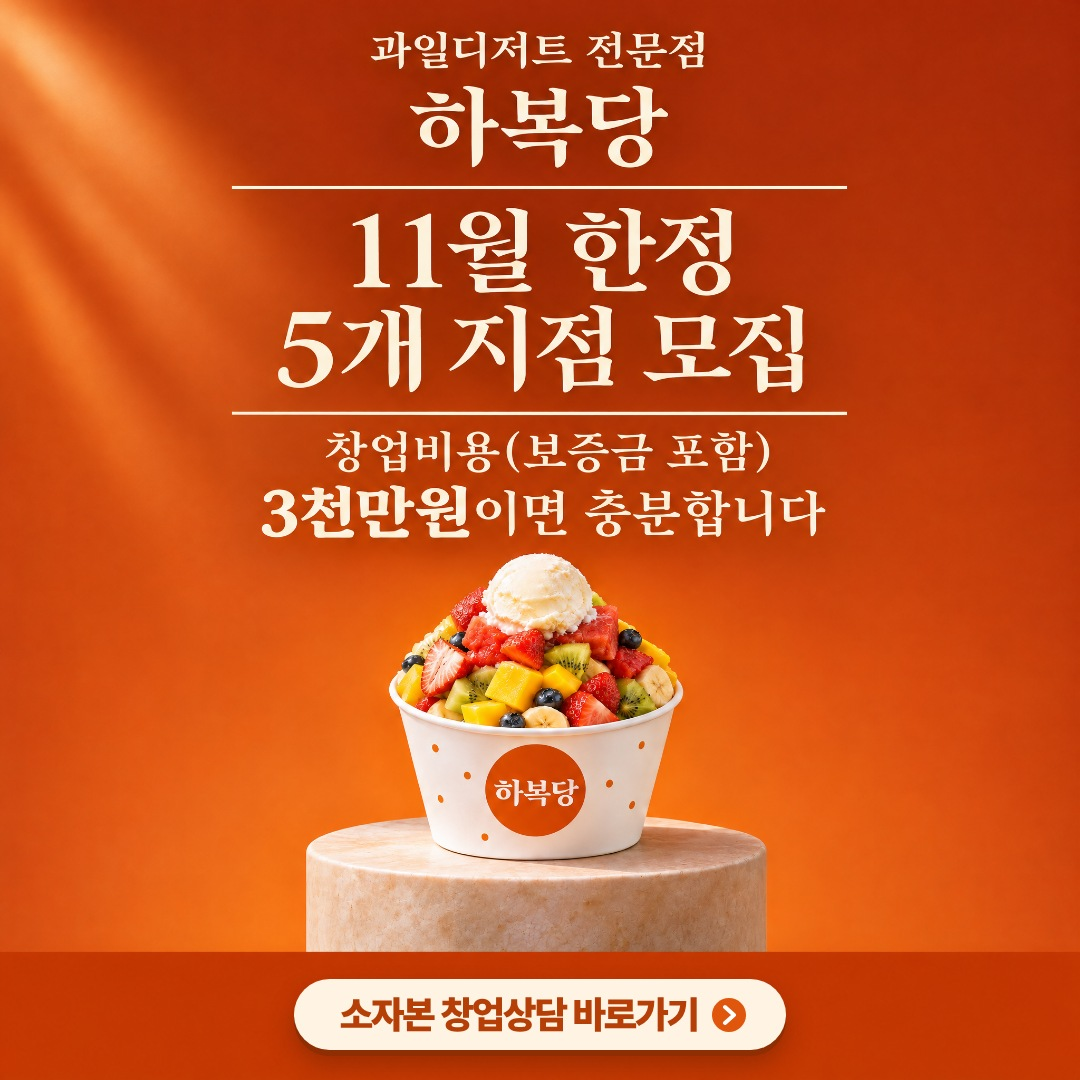
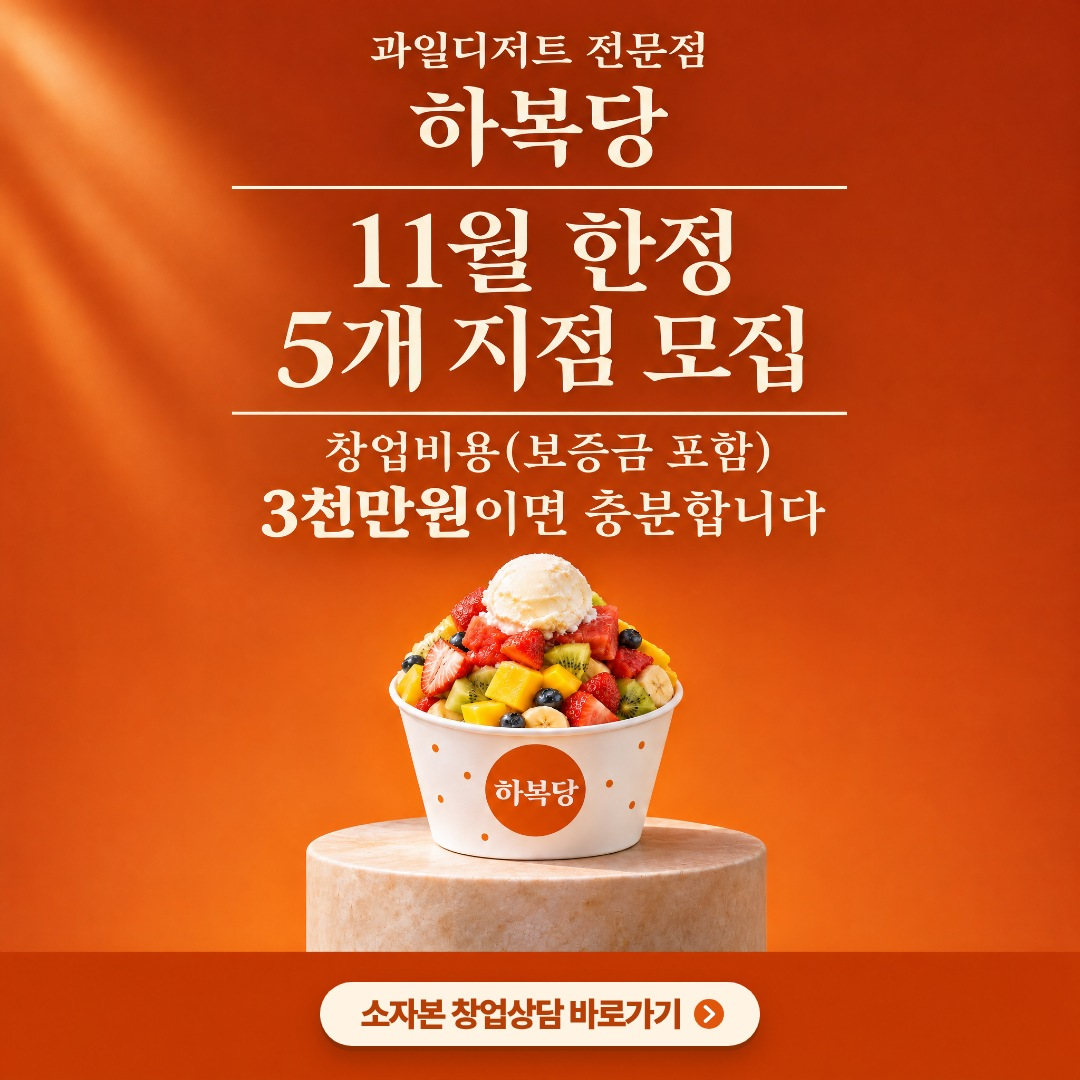
Scale text with the canvas when resizing ads
Resized versions now scale every font, padding, logo and button by
sqrt(area ratio): 1.33x for 1:1 to 9:16, 1.19x/0.89x for the 4:5 master's
9:16/1:1 buttons. Lines that would pass the side margins break instead
of shrinking. Adds ads_meta/CLAUDE.md with the user's standing rules.

Claude-Session: https://claude.ai/code/session_0179R8Fgvuzrn575bSfJcdRk

Changed region(s): [[0.275, 0.8861, 0.7333, 0.9778]]

diff --git a/ads_meta/make_ref3.py b/ads_meta/make_ref3.py
@@ -90,55 +90,65 @@ if __name__ == '__main__':
 
 
 # ================================================================ 9:16 (1080x1920)
+# Resize rule (user, 2026-11-10): text scales with the canvas. 1:1 -> 9:16 is sqrt(1920/1080) = 1.33x
+# for every font, padding, logo and button. A line that would pass 950px (65px side margins) is broken
+# at a natural phrase boundary instead of being shrunk.
 # Meta Stories/Reels: key text within y 269-1248, 65px from the sides; bottom 35% imagery only.
+S = 4 / 3
+def z(n):
+    return round(n * S)
+
+
 def B916():
-    return make_switch.BASE(1920) + CSS.replace('.ph{left:0;top:0;width:1080px;height:1080px}', '.ph{left:0;top:0;width:1080px;height:1920px}')
+    return make_switch.BASE(1920) + CSS.replace('.ph{left:0;top:0;width:1080px;height:1080px}', '.ph{left:0;top:0;width:1080px;height:1920px}').replace(
+        'text-shadow:0 4px 18px rgba(0,0,0,.55)', f'text-shadow:0 {z(4)}px {z(18)}px rgba(0,0,0,.55)')
 
 
 R1_916 = B916() + f'''<style>
 .bg1{{background:url('{HERO}') 12% 50%/auto 1920px no-repeat;filter:saturate(1.05)}}
-.dim1{{background:linear-gradient(rgba(30,12,4,.55) 0%,rgba(30,12,4,.82) 14%,rgba(30,12,4,.7) 34%,rgba(30,12,4,.25) 52%,rgba(30,12,4,.1) 75%,rgba(30,12,4,.45) 100%)}}
-.blue{{display:inline-block;padding:0 22px 8px;border-radius:16px;background:linear-gradient(135deg,#3AA0FF,#1556E0);color:#fff;box-shadow:0 6px 0 #0B3A9E,0 10px 26px rgba(20,90,255,.45)}}
-.box{{display:inline-block;padding:6px 18px 10px;margin:0 4px;border-radius:10px;background:#fff;color:#2A1206;font-weight:900;letter-spacing:-.04em;line-height:1.15}}
+.dim1{{background:linear-gradient(rgba(30,12,4,.55) 0%,rgba(30,12,4,.82) 14%,rgba(30,12,4,.72) 40%,rgba(30,12,4,.3) 60%,rgba(30,12,4,.12) 78%,rgba(30,12,4,.45) 100%)}}
+.blue{{display:inline-block;padding:0 {z(22)}px {z(8)}px;border-radius:{z(16)}px;background:linear-gradient(135deg,#3AA0FF,#1556E0);color:#fff;box-shadow:0 {z(6)}px 0 #0B3A9E,0 {z(10)}px {z(26)}px rgba(20,90,255,.45)}}
+.box{{display:inline-block;padding:{z(6)}px {z(18)}px {z(10)}px;margin:0 4px;border-radius:{z(10)}px;background:#fff;color:#2A1206;font-weight:900;letter-spacing:-.04em;line-height:1.15}}
 .box.o{{background:#FF8A1E;color:#fff}}
-.cbtn{{left:0;right:0;top:1118px;display:flex;justify-content:center}}
-.cbtn a{{display:flex;align-items:center;gap:16px;padding:22px 44px;border-radius:70px;background:#1E0D05;box-shadow:0 10px 30px rgba(0,0,0,.45);border:3px solid rgba(255,154,60,.6)}}
-.cbtn span{{font-size:46px;font-weight:900;letter-spacing:-.045em;color:#fff}}
+.cbtn{{left:0;right:0;top:1074px;display:flex;justify-content:center}}
+.cbtn a{{display:flex;align-items:center;gap:{z(16)}px;padding:{z(20)}px {z(42)}px;border-radius:100px;background:#1E0D05;box-shadow:0 12px 36px rgba(0,0,0,.45);border:4px solid rgba(255,154,60,.6)}}
+.cbtn span{{font-size:{z(46)}px;font-weight:900;letter-spacing:-.045em;color:#fff}}
 .cbtn b{{color:#FF9A3C}}
 </style>
 <div class="a ph bg1"></div><div class="a ph dim1"></div>
-<img class="a" src="{LOGO_W}" style="left:494px;top:300px;width:92px">
-<div class="a t k" style="top:430px;font-size:70px;font-weight:900;line-height:1.3">아직 <span class="blue">블루오션</span> <span style="color:#FFB15C">과일카페 창업</span></div>
-<div class="a t k" style="top:540px;font-size:132px">하복당이 <span style="color:#FF9A3C">기회!</span></div>
-<div class="a k" style="left:0;right:0;top:718px;text-align:center"><span class="box" style="font-size:62px">보증금 포함 총 창업비</span></div>
-<div class="a k" style="left:0;right:0;top:818px;text-align:center"><span class="box o" style="font-size:96px">2500만원</span></div>
+<img class="a" src="{LOGO_W}" style="left:{(1080 - z(92)) // 2}px;top:272px;width:{z(92)}px">
+<div class="a t k" style="top:388px;font-size:85px;font-weight:900;line-height:1.3">아직 <span class="blue">블루오션</span> <span style="color:#FFB15C">과일카페 창업</span></div>
+<div class="a t k" style="top:530px;font-size:{z(132)}px">하복당이 <span style="color:#FF9A3C">기회!</span></div>
+<div class="a k" style="left:0;right:0;top:752px;text-align:center"><span class="box" style="font-size:{z(62)}px">보증금 포함 총 창업비</span></div>
+<div class="a k" style="left:0;right:0;top:886px;text-align:center"><span class="box o" style="font-size:{z(96)}px">2500만원</span></div>
 <div class="a cbtn k"><a><span>하복당 <b>30초 창업상담</b> 바로가기</span>
-<svg width="34" height="34" viewBox="0 0 34 34"><path d="M8 4 L28 17 L8 30 Z" fill="#fff"/></svg></a></div>'''
+<svg width="{z(34)}" height="{z(34)}" viewBox="0 0 34 34"><path d="M8 4 L28 17 L8 30 Z" fill="#fff"/></svg></a></div>'''
 
 R2_916 = B916() + f'''<style>
-.bg2{{left:0;top:300px;width:1080px;height:720px;background:url('{STORE}') -330px 0/auto 720px no-repeat}}
-.top2{{left:0;top:300px;width:1080px;height:120px;background:linear-gradient(#1A0C05,rgba(26,12,5,0))}}
-.dim2{{background:linear-gradient(rgba(20,10,5,0) 0%,rgba(20,10,5,0) 42%,rgba(20,10,5,.8) 50%,#1A0C05 54%)}}
+.bg2{{left:0;top:150px;width:1080px;height:640px;background:url('{STORE}') -213px 0/auto 640px no-repeat}}
+.top2{{left:0;top:150px;width:1080px;height:110px;background:linear-gradient(#1A0C05,rgba(26,12,5,0))}}
+.dim2{{background:linear-gradient(rgba(20,10,5,0) 0%,rgba(20,10,5,0) 31%,rgba(20,10,5,.8) 38.5%,#1A0C05 42%)}}
 .y{{color:#FFB13C}}
 </style>
 <div class="a bg2"></div><div class="a top2"></div><div class="a ph dim2"></div>
-<div class="a t k" style="top:1010px;font-size:60px">보증금 1000만원 · 월세 80만원 매장에서</div>
-<div class="a t k" style="top:1096px;font-size:118px">월매출 <span class="y">8200만원?</span></div>
-<img class="a" src="{LOGO_W}" style="left:494px;top:1290px;width:92px">'''
+<div class="a t k" style="top:716px;font-size:{z(60)}px;line-height:1.2">보증금 1000만원<br>월세 80만원 매장에서</div>
+<div class="a t k" style="top:908px;font-size:{z(118)}px;line-height:1.04">월매출<br><span class="y">8200만원?</span></div>
+<img class="a" src="{LOGO_W}" style="left:{(1080 - z(92)) // 2}px;top:1262px;width:{z(92)}px">'''
 
 R3_916 = B916() + f'''<style>
 .bg3{{background:url('{DELIV}') 50% 100%/auto 1920px no-repeat}}
-.dim3{{background:linear-gradient(rgba(16,8,4,.6) 0%,rgba(16,8,4,.86) 14%,rgba(16,8,4,.75) 36%,rgba(16,8,4,.3) 56%,rgba(16,8,4,.15) 80%,rgba(16,8,4,.5) 100%)}}
-.pill{{display:inline-block;padding:12px 30px;border-radius:44px;background:#E2361B;color:#fff;font-size:34px;font-weight:800;letter-spacing:-.03em}}
-.hl{{left:64px;color:#fff;font-weight:900;letter-spacing:-.05em;line-height:1.05;font-size:96px;text-shadow:0 4px 18px rgba(0,0,0,.5)}}
-.hl .r{{display:inline-block;padding:2px 16px 8px;background:#E2361B;color:#fff}}
+.dim3{{background:linear-gradient(rgba(16,8,4,.6) 0%,rgba(16,8,4,.86) 14%,rgba(16,8,4,.78) 40%,rgba(16,8,4,.35) 58%,rgba(16,8,4,.15) 80%,rgba(16,8,4,.5) 100%)}}
+.pill{{display:inline-block;padding:{z(12)}px {z(30)}px;border-radius:60px;background:#E2361B;color:#fff;font-size:{z(34)}px;font-weight:800;letter-spacing:-.03em}}
+.hl{{left:64px;color:#fff;font-weight:900;letter-spacing:-.05em;line-height:1.05;font-size:{z(96)}px;text-shadow:0 {z(4)}px {z(18)}px rgba(0,0,0,.5)}}
+.hl .r{{display:inline-block;padding:{z(2)}px {z(16)}px {z(8)}px;background:#E2361B;color:#fff}}
 </style>
 <div class="a ph bg3"></div><div class="a ph dim3"></div>
-<div class="a k" style="left:64px;top:300px"><span class="pill">과일디저트 전문점 하복당</span></div>
-<div class="a hl k" style="top:404px">월세 60만원</div>
-<div class="a hl k" style="top:524px"><span class="r">공실</span>에서</div>
-<div class="a hl k" style="top:644px"><span class="r">월매출 5300만원</span> 달성</div>
-<img class="a" src="{LOGO_W}" style="left:66px;top:790px;width:92px">'''
+<div class="a k" style="left:64px;top:280px"><span class="pill">과일디저트 전문점 하복당</span></div>
+<div class="a hl k" style="top:392px">월세 60만원</div>
+<div class="a hl k" style="top:552px"><span class="r">공실</span>에서</div>
+<div class="a hl k" style="top:712px"><span class="r">월매출 5300만원</span></div>
+<div class="a hl k" style="top:872px">달성</div>
+<img class="a" src="{LOGO_W}" style="left:66px;top:1040px;width:{z(92)}px">'''
 
 
 if __name__ == '__main__' and os.environ.get('R916'):

diff --git a/ads_meta/make_switch3.py b/ads_meta/make_switch3.py
@@ -238,3 +238,59 @@ if __name__ == '__main__' and os.environ.get('SW916SAME'):
     json.dump([{'html': hp, 'out': os.path.join(HERE, 'out', 'sw3_b_916same.png'), 'width': 1080, 'height': 1920}], open(jp, 'w'))
     subprocess.run(['node', os.path.join(HERE, 'render.js'), jp], check=True)
     Image.open(os.path.join(HERE, 'out', 'sw3_b_916same.png')).convert('RGB').save(os.path.join(HERE, 'out', '하복당_업종변경_9x16_실사_300만원_그대로.jpg'), quality=93)
+
+
+def page916_scaled():
+    """9:16 (1080x1920) of the 1:1 B design with every text element scaled 1.33x (sqrt(1920/1080)),
+    per the resize rule. "300만원 부터?!" and the bar text would pass 950px at that size, so they break
+    onto two lines. Text stays inside the Stories safe zone (y 269-1651)."""
+    S = 4 / 3
+    z = lambda n: round(n * S)
+    L, R, Hs = 700, 430, 1060
+    rp = f'polygon({L}px 0,1080px 0,1080px {Hs}px,{R}px {Hs}px)'
+    clean = make.u('assets/cutfruit_clean.jpg')
+    pill = f'padding:{z(12)}px {z(30)}px;border-radius:60px;font-size:{z(36)}px;font-weight:900;letter-spacing:-.03em;box-shadow:0 8px 24px rgba(0,0,0,.35)'
+    return make_switch.BASE(1920) + f'''<style>
+@font-face{{font-family:BHS;src:url('{BHS}')}}
+body{{background:#120B07}}
+.cafe{{left:0;top:0;width:1080px;height:{Hs}px;background:url('{CAFE}') -470px 0/auto 1250px no-repeat;
+  filter:brightness(.72) saturate(.5) contrast(1.05);clip-path:polygon(0 0,{L}px 0,{R}px {Hs}px,0 {Hs}px)}}
+.fruit{{left:0;top:0;width:1080px;height:{Hs}px;background:#E8DFD3 url('{clean}') 60px 236px/auto 700px no-repeat;clip-path:{rp}}}
+.fruittop{{left:0;top:0;width:1080px;height:330px;clip-path:{rp};background:linear-gradient(#E8DFD3 0%,#E8DFD3 76%,rgba(232,223,211,0) 100%)}}
+.sp{{left:0;top:0;width:1080px;height:{Hs}px;clip-path:{rp}}}
+.shade{{left:0;top:0;width:1080px;height:1920px;background:linear-gradient(rgba(18,11,7,0) 0%,rgba(18,11,7,0) 35%,rgba(18,11,7,.72) 43%,#120B07 50%)}}
+.l1{{left:0;right:0;top:812px;text-align:center;color:#fff;font-family:BHS;font-size:{z(112)}px;letter-spacing:-.01em;line-height:1;text-shadow:0 8px 24px rgba(0,0,0,.6)}}
+.n{{left:0;right:0;top:960px;text-align:center;font-family:BHS;font-size:280px;line-height:.92;color:#FF8A1E;letter-spacing:-.02em;transform:skewX(-8deg);text-shadow:0 {z(8)}px 0 #6b2600}}
+.b{{left:0;right:0;top:1222px;text-align:center;font-family:BHS;font-size:{z(112)}px;line-height:1;color:#fff;transform:skewX(-8deg);text-shadow:0 8px 24px rgba(0,0,0,.6)}}
+.brush{{left:90px;top:1374px}}
+.sbar{{left:34px;right:34px;top:1434px;height:186px;background:#FF8A1E;transform:skewX(-12deg);display:flex;align-items:center;justify-content:center;box-shadow:0 12px 30px rgba(0,0,0,.35)}}
+.sbar span{{transform:skewX(12deg);font-size:{z(39)}px;font-weight:900;font-style:italic;color:#2A1206;letter-spacing:-.045em;line-height:1.18;text-align:center;white-space:nowrap}}
+.sbar b{{font-size:{z(46)}px;font-weight:900}}
+</style>
+<div class="a cafe"></div><div class="a fruit"></div><div class="a fruittop"></div>
+<div class="a sp" style="background:radial-gradient(ellipse 48% 50% at 72% 46%,rgba(255,200,140,0) 0%,rgba(255,128,30,.34) 50%,rgba(225,88,8,.86) 100%);mix-blend-mode:multiply"></div>
+<div class="a" style="left:0;top:0;width:1080px;height:{Hs}px;clip-path:polygon(760px 0,940px 0,1080px 980px,540px 980px);
+  background:linear-gradient(rgba(255,178,92,.55),rgba(255,150,60,.18) 70%,rgba(255,150,60,0));mix-blend-mode:screen;filter:blur(18px)"></div>
+<div class="a sp" style="background:radial-gradient(ellipse 32% 32% at 76% 40%,rgba(255,190,110,.28),rgba(255,190,110,0) 70%);mix-blend-mode:screen"></div>
+<svg class="a" style="left:0;top:0" width="1080" height="{Hs}"><defs><filter id="g"><feGaussianBlur stdDeviation="6"/></filter></defs>
+<line x1="{L}" y1="0" x2="{R}" y2="{Hs}" stroke="#FF8A1E" stroke-width="18" filter="url(#g)" opacity=".9"/>
+<line x1="{L}" y1="0" x2="{R}" y2="{Hs}" stroke="#FFD2A1" stroke-width="5"/></svg>
+<div class="a shade"></div>
+<div class="a k" style="left:0;right:0;top:288px;display:flex;justify-content:center;align-items:center;gap:{z(14)}px">
+<span style="{pill};background:rgba(28,28,28,.88);color:#eaeaea">기존 카페</span>
+<svg width="{z(74)}" height="{z(52)}" viewBox="0 0 74 52" style="filter:drop-shadow(0 4px 8px rgba(0,0,0,.45))"><path d="M4 26 H56" stroke="#fff" stroke-width="9" stroke-linecap="round"/><path d="M42 8 L64 26 L42 44" stroke="#fff" stroke-width="9" fill="none" stroke-linecap="round" stroke-linejoin="round"/></svg>
+<span style="{pill};background:#FF8A1E;color:#2A1206">하복당</span></div>
+<div class="a l1 k">카페 업종변경</div>
+<div class="a n k">300만원</div>
+<div class="a b k">부터?!</div>
+<svg class="a brush" width="900" height="44" viewBox="0 0 840 40"><path d="M8 30 C 220 8, 560 4, 832 16" stroke="#FFB15C" stroke-width="9" fill="none" stroke-linecap="round"/><path d="M90 36 C 320 22, 560 22, 780 30" stroke="#FF8A1E" stroke-width="4" fill="none" stroke-linecap="round"/></svg>
+<div class="a sbar k"><span>배달로만 <b>8900만원</b> 매출 달성<br>+ 2인 운영 가능 업종</span></div>'''
+
+
+if __name__ == '__main__' and os.environ.get('SW916SC'):
+    from PIL import Image
+    hp = os.path.join(HERE, 'out', 'sw3_b_916sc.html'); open(hp, 'w').write(page916_scaled())
+    jp = os.path.join(HERE, '_jobs_sw3.json')
+    json.dump([{'html': hp, 'out': os.path.join(HERE, 'out', 'sw3_b_916sc.png'), 'width': 1080, 'height': 1920}], open(jp, 'w'))
+    subprocess.run(['node', os.path.join(HERE, 'render.js'), jp], check=True)
+    Image.open(os.path.join(HERE, 'out', 'sw3_b_916sc.png')).convert('RGB').save(os.path.join(HERE, 'out', '하복당_업종변경_9x16_실사_300만원_텍스트비례.jpg'), quality=93)

diff --git a/ads_meta/make_cta_sizes.py b/ads_meta/make_cta_sizes.py
@@ -7,23 +7,26 @@ import make
 
 SIZES = {  # name: (raw file, width, height, button top)
     '4x5': ('raw_41.png', 1080, 1350, 1254),
-    '1x1': ('raw_42.png', 1080, 1080, 979),
-    '9x16': ('raw_43.png', 1080, 1920, 1020),
+    '1x1': ('raw_42.png', 1080, 1080, 982),
+    '9x16': ('raw_43.png', 1080, 1920, 1014),
 }
+BASE_AREA = 1080 * 1350  # the 4:5 is the master; other sizes scale the button by sqrt(area ratio)
 
 
 def page(src, w, h, top):
+    k = (w * h / BASE_AREA) ** .5
+    z = lambda n: round(n * k)
     head = make.HEAD.replace('html,body{width:1080px;height:1350px;overflow:hidden}', f'html,body{{width:{w}px;height:{h}px;overflow:hidden}}')
     return head + f'''<style>
 body{{background:#C43C02}}
 .bg{{left:0;top:0;width:{w}px;height:{h}px;background:url('file://{src}') 0 0/{w}px {h}px no-repeat}}
 .cta{{left:0;right:0;top:{top}px;display:flex;justify-content:center}}
-.cta a{{display:flex;align-items:center;gap:14px;padding:13px 40px 13px 46px;border-radius:60px;background:#FFF3E4;color:#B53F06;
-  font-size:38px;font-weight:900;letter-spacing:-.04em;box-shadow:0 6px 0 #8E2E02,0 14px 26px rgba(70,20,0,.35)}}
+.cta a{{display:flex;align-items:center;gap:{z(14)}px;padding:{z(13)}px {z(40)}px {z(13)}px {z(46)}px;border-radius:80px;background:#FFF3E4;color:#B53F06;
+  font-size:{z(38)}px;font-weight:900;letter-spacing:-.04em;box-shadow:0 {z(6)}px 0 #8E2E02,0 {z(14)}px {z(26)}px rgba(70,20,0,.35)}}
 </style>
 <div class="a bg"></div>
 <div class="a cta k"><a>소자본 창업상담 바로가기
-<svg width="34" height="34" viewBox="0 0 34 34"><circle cx="17" cy="17" r="17" fill="#E0560C"/><path d="M13 9 L22 17 L13 25" stroke="#fff" stroke-width="4" fill="none" stroke-linecap="round" stroke-linejoin="round"/></svg></a></div>'''
+<svg width="{z(34)}" height="{z(34)}" viewBox="0 0 34 34"><circle cx="17" cy="17" r="17" fill="#E0560C"/><path d="M13 9 L22 17 L13 25" stroke="#fff" stroke-width="4" fill="none" stroke-linecap="round" stroke-linejoin="round"/></svg></a></div>'''
 
 
 if __name__ == '__main__':

diff --git a/ads_meta/CLAUDE.md b/ads_meta/CLAUDE.md
@@ -1,0 +1,24 @@
+# 하복당 메타 광고 소재 — 상시 규칙 (사용자 지시)
+
+## 사이즈 변경 (리사이즈)
+- 사이즈를 바꿀 때는 **텍스트도 항상 캔버스에 맞춰 같이 키우거나 줄인다** (2026-11-10 지시).
+  - 배율 = √(새 면적 ÷ 원본 면적). 1:1→9:16 = 1.33배, 4:5→9:16 = 1.19배, 4:5→1:1 = 0.89배.
+  - 글자 크기, 패딩, 로고, 버튼, 그림자까지 같은 배율로 키우거나 줄인다.
+  - 좌우 여백 65px를 넘는 줄은 글자를 줄이지 말고 자연스러운 위치에서 줄을 바꾼다.
+    - 예: "월매출 / 8200만원?", "300만원 / 부터?!".
+  - 10% 이내로만 넘치면 그만큼 줄여 폭에 맞춰도 된다.
+  - 렌더링 후 `measure.js`로 텍스트 범위를 측정해 원본 대비 배율을 확인한다.
+- 그 외 디자인(문구, 색, 사진, 요소)은 그대로 둔다. 요소를 새로 추가하거나 빼지 않는다.
+- 메타 9:16 안전영역:
+  - 릴스: 핵심 문구와 로고를 y 269–1248, 좌우 65px 안에 둔다.
+  - 스토리: y 269–1651 안에 둔다.
+
+## 문구
+- 소재를 전달할 때는 **항상 메타 광고 문구도 같이 적는다**: 제목, 설명, 기본 문구.
+- 매출 수치는 근거(매장·기간·집계 방법)가 필요하다. 근거는 기본 문구에 적는다.
+- 비용 수치(300만원, 2500만원, 3천만원)는 포함 범위를 밝혀 서로 모순되지 않게 한다.
+- 이미지 하단의 작은 흰색 각주는 넣지 않는다. 사용자가 반복해서 지웠다.
+
+## 사진
+- 하복당 쪽은 실사 사진만 쓴다. AI로 만든 배경(커피→과일 합성 등)은 사용자가 거절했다.
+- 저장소가 공개 저장소이므로 사람이 찍힌 사진과 그 렌더는 커밋하지 않는다(.gitignore). `assets/real_empty_cafe.jpg`와 `sw3_*` 출력물이 여기에 해당한다.
